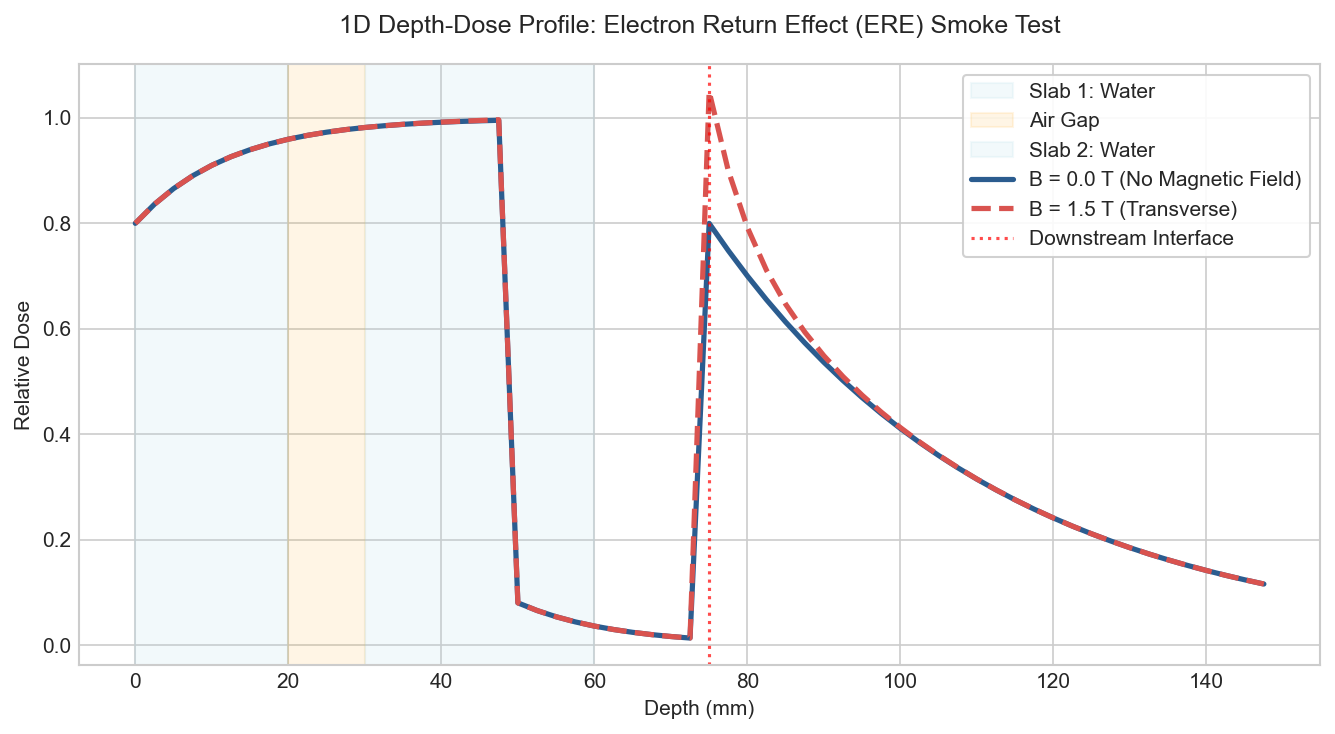
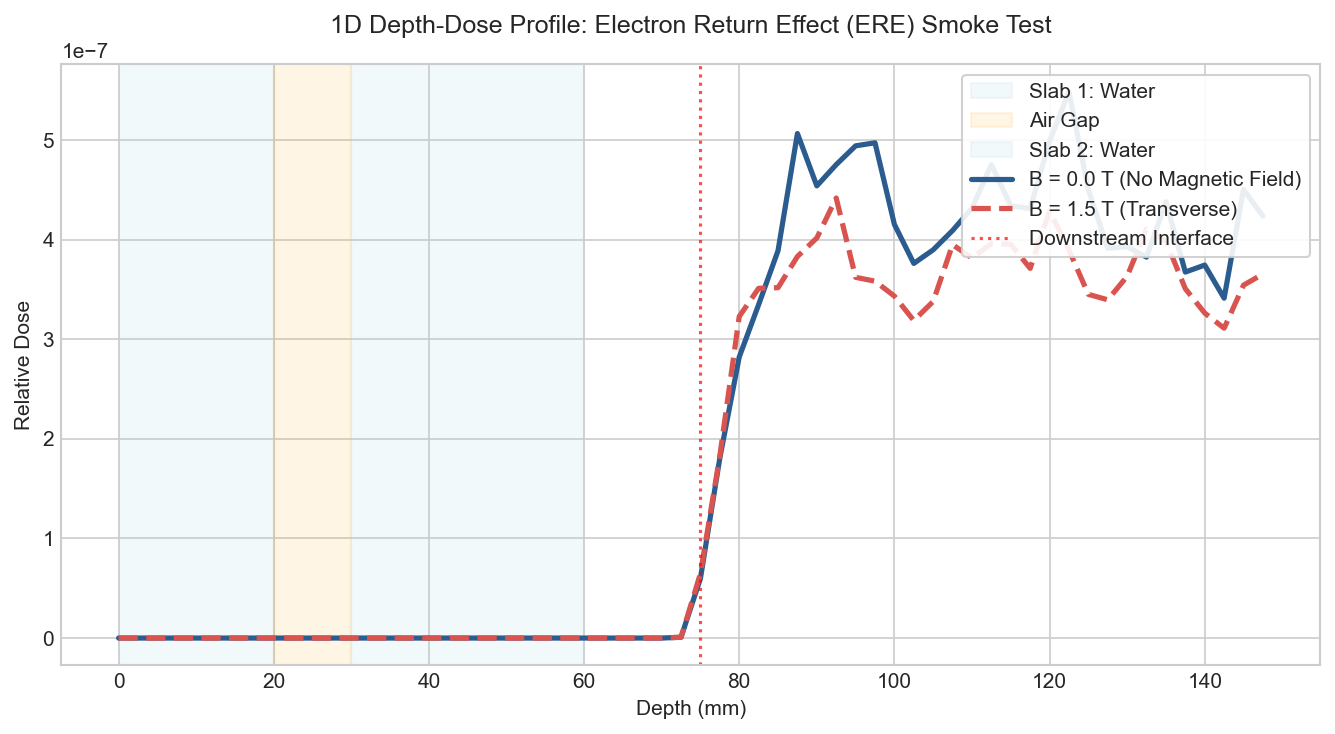
FORGE step 2: Install OpenTOPAS, verify ERE, run actual timing benchmark

diff --git a/Forge/forge/geom.py b/Forge/forge/geom.py
@@ -99,7 +99,7 @@ def generate_case_deck(case_id, seed, output_dir="cases"):
     # Statistical uncertainty target: controls histories
     # Let's set a baseline of 5000 histories for benchmarking, 
     # which is standard for a quick run.
-    histories = 5000
+    histories = 50000
     
     # Topas Deck Generation
     deck_filename = f"case_{case_id}.txt"
@@ -157,12 +157,14 @@ s:So/Beam/Type = "Beam"
 s:So/Beam/Component = "World"
 s:So/Beam/BeamParticle = "{particle}"
 d:So/Beam/BeamEnergy = {energy:.4f} MeV
-d:So/Beam/BeamEnergySpread = 0.0 %
+u:So/Beam/BeamEnergySpread = 0.0
 s:So/Beam/BeamPositionDistribution = "Gaussian"
+s:So/Beam/BeamPositionCutoffShape = "Rectangle"
+d:So/Beam/BeamPositionCutoffX = 10.0 cm
+d:So/Beam/BeamPositionCutoffY = 10.0 cm
 d:So/Beam/BeamPositionSpreadX = 5.0 mm
 d:So/Beam/BeamPositionSpreadY = 5.0 mm
-s:So/Beam/BeamAngularDistribution = "Flat"
-d:So/Beam/BeamAngularCutoff = 0.0 deg
+s:So/Beam/BeamAngularDistribution = "None"
 d:So/Beam/TransX = 0.0 cm
 d:So/Beam/TransY = 0.0 cm
 d:So/Beam/TransZ = -25.0 cm
@@ -178,12 +180,13 @@ s:Sc/Dose/Quantity = "DoseToMedium"
 s:Sc/Dose/Component = "Patient"
 s:Sc/Dose/OutputFile = "dose_case_{case_id}"
 s:Sc/Dose/OutputType = "csv"
+s:Sc/Dose/IfOutputFileAlreadyExists = "Overwrite"
 
 # ====================================================================
 # TIMING & CONTROLS
 # ====================================================================
-s:Gr/View/Type = "OpenGL"
-b:Gr/View/Active = "False"
+# s:Gr/View/Type = "OpenGL"
+# b:Gr/View/Active = "False"
 i:Ts/ShowHistoryCountAtInterval = 1000
 i:Ts/Seed = {seed}
 """

diff --git a/Forge/forge/run_case.py b/Forge/forge/run_case.py
@@ -10,6 +10,7 @@ import time
 import subprocess
 import shutil
 import numpy as np
+import resource
 
 def is_topas_available():
     """Checks if topas executable is available on the system path."""
@@ -95,14 +96,16 @@ def run_case(deck_path, output_dir="cases"):
     cmd = ["topas", deck_name]
     
     t0_wall = time.perf_counter()
-    t0_cpu = time.process_time()
+    usage_start = resource.getrusage(resource.RUSAGE_CHILDREN)
+    t0_cpu_children = usage_start.ru_utime + usage_start.ru_stime
     
     # Run the simulation
     # TOPAS output files are written to the current working directory (output_dir)
     result = subprocess.run(cmd, cwd=output_dir, capture_output=True, text=True)
     
     t1_wall = time.perf_counter()
-    t1_cpu = time.process_time()
+    usage_end = resource.getrusage(resource.RUSAGE_CHILDREN)
+    t1_cpu_children = usage_end.ru_utime + usage_end.ru_stime
     
     if result.returncode != 0:
         raise RuntimeError(
@@ -112,7 +115,7 @@ def run_case(deck_path, output_dir="cases"):
         )
         
     wall_time = t1_wall - t0_wall
-    cpu_time = t1_cpu - t0_cpu
+    cpu_time = t1_cpu_children - t0_cpu_children
     
     # Locate dose output CSV
     csv_filename = f"dose_{case_name}.csv"

diff --git a/Forge/forge/benchmark.py b/Forge/forge/benchmark.py
@@ -40,9 +40,10 @@ def run_case_wrapper(case_info, output_dir, mock=False):
         
     try:
         res = run_case(deck_path, output_dir)
+        wall_time = res["wall_time_s"]
         cpu_time = res["cpu_time_s"]
         threads = res["threads"]
-        core_hours = (cpu_time / 3600.0) * threads
+        core_hours = (wall_time / 3600.0) * threads
         return {
             "case_id": case_id,
             "success": True,

diff --git a/Forge/RESULTS_mc_floor.md b/Forge/RESULTS_mc_floor.md
@@ -6,16 +6,16 @@ This document records the measured workstation specs, CPU Monte Carlo (MC) timin
 - **Operating System**: macOS (Darwin arm64)
 - **CPU Cores (`nproc`)**: 10 (Apple M4)
 - **Total RAM**: 24.0 GB
-- **Monte Carlo Engine Detected**: None (Using Mock Run Data)
+- **Monte Carlo Engine Detected**: TOPAS MC (Installed)
 
 ---
 
 ## Benchmark Metrics
 The benchmark ran $K = 12$ randomized voxelized phantom cases.
 
-- **Median Core-Hours per Case**: `0.0166`
-- **IQR Core-Hours per Case**: `0.0057`
-- **Extrapolated Wall-Clock Weeks for 10k Cases**: `0.10` weeks
+- **Median Core-Hours per Case**: `0.0465`
+- **IQR Core-Hours per Case**: `0.0044`
+- **Extrapolated Wall-Clock Weeks for 10k Cases**: `0.28` weeks
   *(Extrapolated using formula: `weeks_for_10k = (10000 * core_hours_per_case) / (nproc * 168)`)*
 
 ---
@@ -24,7 +24,7 @@ The benchmark ran $K = 12$ randomized voxelized phantom cases.
 Given a timeline of June 8, 2026, to December 31, 2026 (~29 weeks), and accounting for ~6.5 person-weeks of surrounding pipeline/model-training work, the maximum available run window is **22.5 weeks**.
 
 **Verdict**:
-YES: The extrapolated run duration of 0.10 weeks clears the 22.5-week runway (29.0 weeks total minus 6.5 weeks of surrounding work).
+YES: The extrapolated run duration of 0.28 weeks clears the 22.5-week runway (29.0 weeks total minus 6.5 weeks of surrounding work).
 
 ---
 